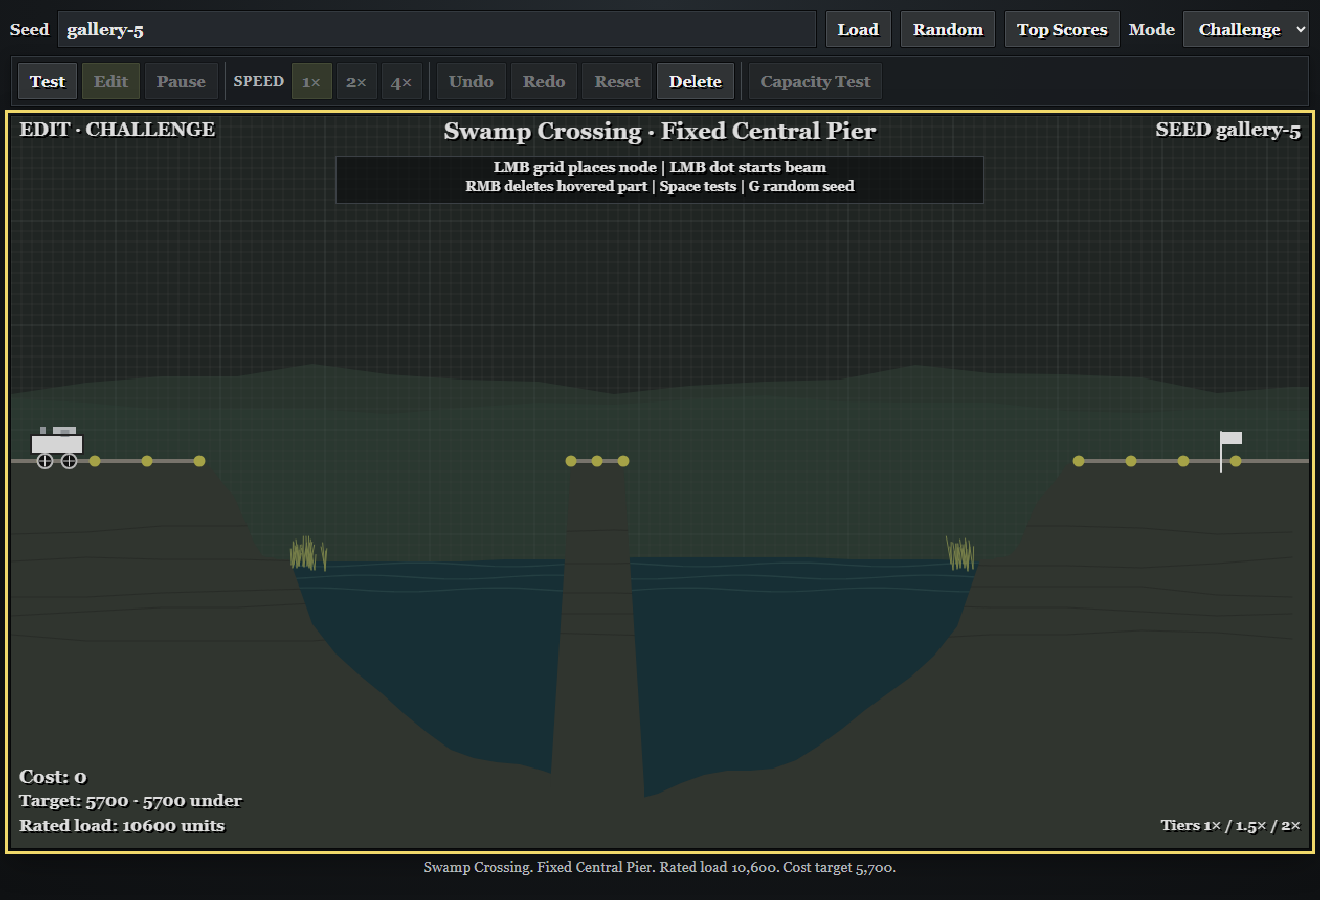
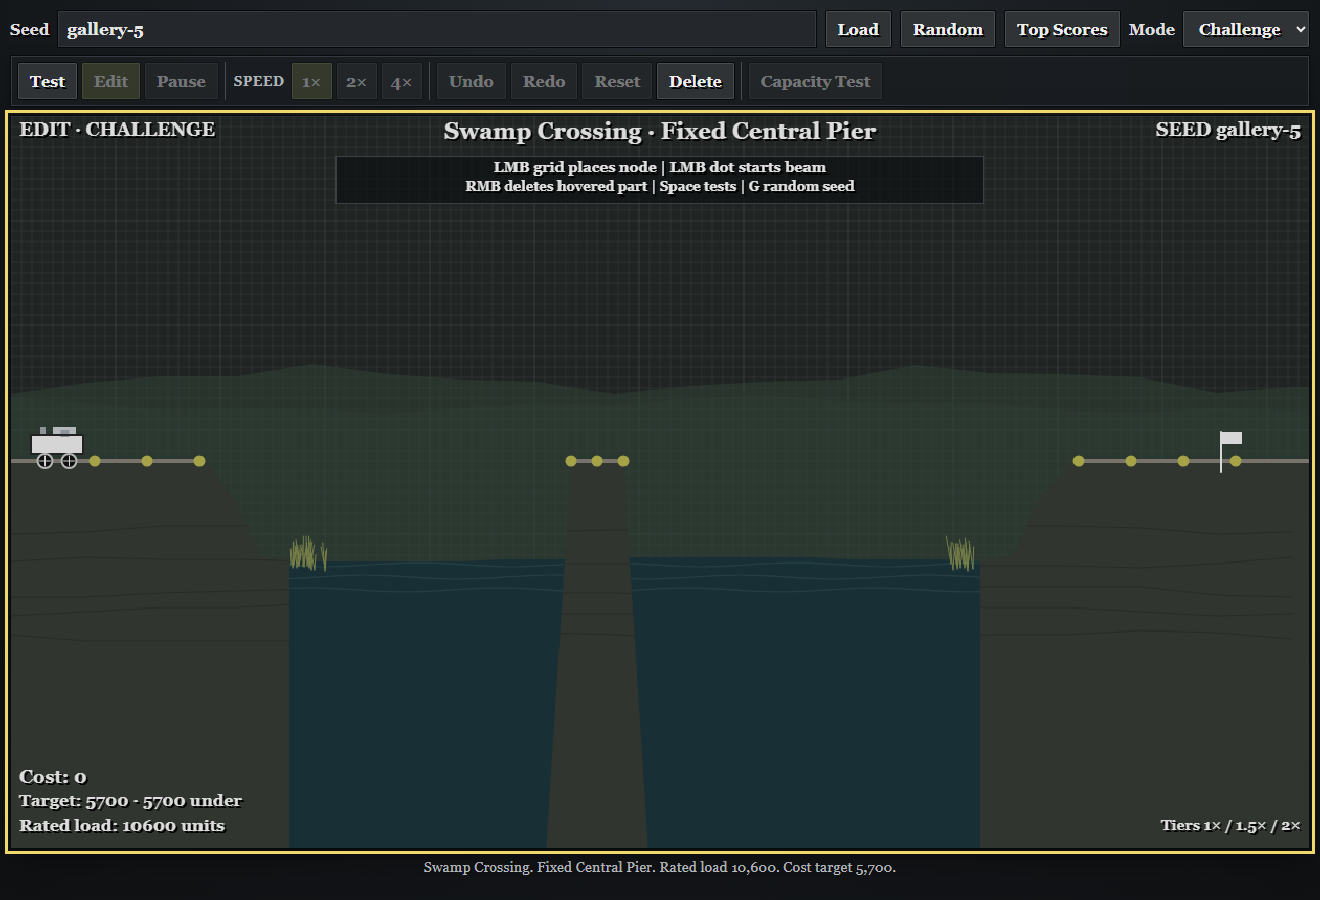
chore: Update leaderboard workflow and improve terrain rendering; enhance tests for water and terrain layering

Changed region(s): [[0.4659, 0.6533, 0.7455, 0.9644], [0.2174, 0.6222, 0.4348, 0.9644]]

diff --git a/tests/browser_runner.html b/tests/browser_runner.html
@@ -300,6 +300,15 @@
             const exclusion = level.buildExclusions.find(
               (candidate) => candidate.id === `${water.id}-build-exclusion`,
             );
+            assert(
+              water.points.slice(-2).every(([, y]) => y > level.canvas.height),
+              `${water.id} background terminates inside the viewport`,
+            );
+            equal(
+              water.behindForegroundTerrain,
+              level.challenge.archetype === "fixed_central_pier",
+              `${water.id} uses the wrong terrain layer`,
+            );
             assert(hazard?.type === "water", `${water.id} needs its own water hazard`);
             equal(
               JSON.stringify(hazard.points),
@@ -334,6 +343,10 @@
           if (level.challenge.archetype === "twin_channel_island") {
             assert(level.waterBodies.length >= 2, "twin channels need separate water bodies");
             assert(level.groundSegments.length >= 3, "island must be driveable ground");
+            const islandTerrain = level.terrain.find(
+              (terrain) => terrain.id === "central-island-terrain",
+            );
+            assert(islandTerrain?.foreground, "central island is not rendered above its channels");
           }
           if (level.challenge.archetype === "fixed_central_pier") {
             equal(level.waterBodies.length, 1, "pier channel should use one continuous water body");
@@ -342,14 +355,25 @@
             const pierTerrain = level.terrain.find(
               (terrain) => terrain.id === "central-pier-terrain",
             );
+            const bottomPoints = pierTerrain.points.filter(
+              ([, y]) => y > level.canvas.height,
+            );
+            const visiblePoints = pierTerrain.points.filter(
+              ([, y]) => y <= level.canvas.height,
+            );
+            assert(pierTerrain.foreground, "central pier is not rendered above its channel");
             assert(
               water.bounds.x < pier.x1 &&
                 water.bounds.x + water.bounds.width > pier.x2,
               "water does not continue behind the foreground pier",
             );
+            equal(bottomPoints.length, 2, "foreground pier needs two off-canvas corners");
             assert(
-              Math.max(...pierTerrain.points.map(([, y]) => y)) > level.canvas.height,
-              "foreground pier does not merge below the organic valley floor",
+              Math.min(...bottomPoints.map(([x]) => x)) <
+                Math.min(...visiblePoints.map(([x]) => x)) &&
+                Math.max(...bottomPoints.map(([x]) => x)) >
+                  Math.max(...visiblePoints.map(([x]) => x)),
+              "foreground pier taper does not continue beyond the viewport",
             );
             const pierHazard = level.hazards.find(
               (hazard) => hazard.id === "central-pier-terrain-impact",

diff --git a/static/game/js/generator.js b/static/game/js/generator.js
@@ -699,18 +699,23 @@ function buildGeometry(mechanics, paletteSpec) {
 
   if (mechanics.pier) {
     const pier = mechanics.pier;
+    const pierBottomY = CANVAS_HEIGHT + 16;
+    const taperHeight = Math.max(1, mechanics.floorY - mechanics.roadY);
+    const pierBottomRun =
+      pier.sideRun * ((pierBottomY - mechanics.roadY) / taperHeight);
     terrain.push({
       id: "central-pier-terrain",
       kind: "terrain",
       collidable: true,
+      foreground: true,
       occludesWater: true,
       color: paletteSpec.rock,
       points: [
         [pier.x1, mechanics.roadY],
         [pier.x2, mechanics.roadY],
         [pier.x2 + pier.sideRun, mechanics.floorY],
-        [pier.x2 + pier.sideRun, CANVAS_HEIGHT + 8],
-        [pier.x1 - pier.sideRun, CANVAS_HEIGHT + 8],
+        [pier.x2 + pierBottomRun, pierBottomY],
+        [pier.x1 - pierBottomRun, pierBottomY],
         [pier.x1 - pier.sideRun, mechanics.floorY],
       ],
     });
@@ -754,6 +759,7 @@ function buildGeometry(mechanics, paletteSpec) {
       id: "central-island-terrain",
       kind: "terrain",
       collidable: true,
+      foreground: true,
       color: paletteSpec.rock,
       points: [
         [island.x1, mechanics.roadY],
@@ -785,10 +791,10 @@ function buildGeometry(mechanics, paletteSpec) {
       range.x1,
       range.x2,
       mechanics.waterY,
-      mechanics.floorY,
       mechanics.waterWave,
       mechanics.waterPhases[index],
       paletteSpec.water,
+      mechanics.pier !== null,
     );
   });
 
@@ -1001,7 +1007,16 @@ function buildRiverbed(leftX, rightX, waterY, floorY, shape) {
   return points;
 }
 
-function buildWaterBody(id, rawX1, rawX2, surfaceY, floorY, wave, phase, color) {
+function buildWaterBody(
+  id,
+  rawX1,
+  rawX2,
+  surfaceY,
+  wave,
+  phase,
+  color,
+  behindForegroundTerrain,
+) {
   const x1 = snap(Math.min(rawX1, rawX2), 2);
   const x2 = snap(Math.max(rawX1, rawX2), 2);
   const width = Math.max(1, x2 - x1);
@@ -1016,7 +1031,7 @@ function buildWaterBody(id, rawX1, rawX2, surfaceY, floorY, wave, phase, color) 
     ]);
   }
 
-  const bottomY = Math.min(CANVAS_HEIGHT - 16, floorY + 34);
+  const bottomY = CANVAS_HEIGHT + 16;
   const points = [
     ...top,
     [x2, bottomY],
@@ -1028,6 +1043,7 @@ function buildWaterBody(id, rawX1, rawX2, surfaceY, floorY, wave, phase, color) 
     kind: "water",
     color,
     surfaceY,
+    behindForegroundTerrain,
     bounds: boundsForPoints(points),
     points,
   };

diff --git a/static/game/js/renderer.js b/static/game/js/renderer.js
@@ -42,9 +42,24 @@ export class Renderer {
     ctx.translate(shake.x, shake.y);
     this.drawBackground(ctx);
     this.drawBackdrop(ctx);
-    this.drawWater(ctx, now);
-    this.drawTerrain(ctx);
-    this.drawTerrainDetails(ctx);
+    const backgroundTerrain = this.level.terrain.filter(
+      (terrain) => terrain.foreground !== true,
+    );
+    const foregroundTerrain = this.level.terrain.filter(
+      (terrain) => terrain.foreground === true,
+    );
+    const rearWater = this.level.waterBodies.filter(
+      (water) => water.behindForegroundTerrain !== true,
+    );
+    const supportWater = this.level.waterBodies.filter(
+      (water) => water.behindForegroundTerrain === true,
+    );
+    this.drawWater(ctx, now, rearWater);
+    this.drawTerrain(ctx, backgroundTerrain);
+    this.drawTerrainDetails(ctx, backgroundTerrain);
+    this.drawWater(ctx, now, supportWater);
+    this.drawTerrain(ctx, foregroundTerrain);
+    this.drawTerrainDetails(ctx, foregroundTerrain);
     this.drawDecorations(ctx, now);
     this.drawRoadEdges(ctx);
 
@@ -99,8 +114,8 @@ export class Renderer {
     }
   }
 
-  drawWater(ctx, now) {
-    for (const water of this.level.waterBodies) {
+  drawWater(ctx, now, waterBodies = this.level.waterBodies) {
+    for (const water of waterBodies) {
       ctx.fillStyle = water.color;
       drawPolygon(ctx, water.points);
       ctx.fill();
@@ -160,23 +175,23 @@ export class Renderer {
     }
   }
 
-  drawTerrain(ctx) {
-    for (const terrain of this.level.terrain) {
+  drawTerrain(ctx, terrainShapes = this.level.terrain) {
+    for (const terrain of terrainShapes) {
       drawPolygon(ctx, terrain.points);
       ctx.fillStyle = terrain.color || this.palette.rock;
       ctx.fill();
     }
   }
 
-  drawTerrainDetails(ctx) {
+  drawTerrainDetails(ctx, terrainShapes = this.level.terrain) {
     const details = this.level.details;
-    if (!details?.strata?.length) {
+    if (!details?.strata?.length || terrainShapes.length === 0) {
       return;
     }
 
     ctx.save();
     ctx.beginPath();
-    for (const terrain of this.level.terrain) {
+    for (const terrain of terrainShapes) {
       terrain.points.forEach(([x, y], index) => {
         if (index === 0) {
           ctx.moveTo(x, y);

diff --git a/tests/test_static_site.py b/tests/test_static_site.py
@@ -122,7 +122,11 @@ def test_current_gameplay_contracts_are_declared():
     assert "KEEP CLEAR" not in renderer
     assert "rockEdge" not in generator + levels + renderer
     assert "edgeColor" not in generator + levels + renderer
-    assert renderer.index("this.drawWater(ctx, now)") < renderer.index("this.drawTerrain(ctx)")
+    rear_water = renderer.index("this.drawWater(ctx, now, rearWater)")
+    background_terrain = renderer.index("this.drawTerrain(ctx, backgroundTerrain)")
+    support_water = renderer.index("this.drawWater(ctx, now, supportWater)")
+    foreground_terrain = renderer.index("this.drawTerrain(ctx, foregroundTerrain)")
+    assert rear_water < background_terrain < support_water < foreground_terrain
 
 
 def test_python_is_test_tooling_only():

diff --git a/README.md b/README.md
@@ -144,8 +144,9 @@ overrun. The seven visual biomes add independent shore and riverbed shapes, pale
 water, reeds, ridgelines, and small effects using Canvas primitives only. Explicit terrain, water,
 hazard, and build-exclusion polygons keep rendering, editing, and collision aligned.
 Terrain silhouettes use contrasting fills without a hard polygon outline. Fixed-pier rivers remain
-continuous behind the foreground pier, while twin-channel islands retain two genuinely separate
-water bodies and hazards.
+continuous behind the foreground pier, and both shapes continue beyond the bottom of the viewport
+so their join cannot expose the backdrop. Twin-channel islands retain two genuinely separate water
+bodies and hazards.
 
 Generation is intentionally small enough to stay on the main thread. The expensive work during play
 is still the per-frame canvas rendering and bridge simulation, not creating a seeded level.
